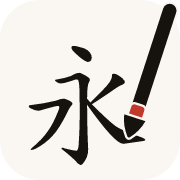
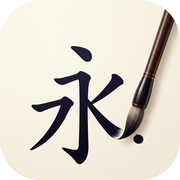
Yeni marka görseli
İkon artık elle çizilmiş bir vektör değil, hazırlanmış bir marka görseli
(brand/icon-source.jpg): 永 karakteri, son stroğu fırçanın altında bitiyor.
Karakter aynı kalıyor — 永字八法'nın karakteri, sekiz temel strok türünü
birden içerdiği için hat yazısında ilk yazılan karakter.

tools/make-logo.py bütün boyutları tek kaynaktan üretiyor: köşeleri
saydamlaştırılmış uygulama ikonları, Android başlatıcı ikonları (yuvarlak ve
daire), uyarlanabilir ikonun ön katmanı ve açılış görselleri.

Maskeli ikonda çizim %88'e küçültülüp kağıt tonunda bir zemine oturtuluyor:
Android kenarları daire ya da köşeli kareyle kırptığı için fırça sapının ucu
aksi halde kesiliyordu. Zemin rengi çizimin kendi kağıt tonundan alındığı
için ek getirdiği kenar görünmüyor.

Kaynak raster olduğundan SVG ikon üretilmiyor; favicon ve başlıktaki marka
PNG'ye geçti, eski vektör logo betiği kalktı.

diff --git a/index.html b/index.html
@@ -8,7 +8,7 @@
 <meta name="description" content="Kendi hanzi havuzunu kur, aralıklı tekrarla ezberle.">
 <title>Inkwell</title>
 <link rel="manifest" href="manifest.webmanifest">
-<link rel="icon" href="icons/icon.svg" type="image/svg+xml">
+<link rel="icon" href="icons/icon-192.png" type="image/png">
 <link rel="apple-touch-icon" href="icons/icon-180.png">
 <link rel="stylesheet" href="css/app.css">
 </head>
@@ -22,7 +22,7 @@
     <!-- oturum dışı: özet -->
     <div class="view" id="study-home">
       <header class="page-head">
-        <h1 class="wordmark"><img src="icons/mark.svg" alt="" width="34" height="34">Inkwell</h1>
+        <h1 class="wordmark"><img src="icons/icon-192.png" alt="" width="34" height="34">Inkwell</h1>
         <p class="subtitle" id="study-greeting">Bugünün tekrarı</p>
       </header>
 

diff --git a/css/app.css b/css/app.css
@@ -116,7 +116,7 @@ body::before {
   letter-spacing: .06em;
   font-weight: 600 !important;
 }
-.wordmark img { display: block; flex: none; }
+.wordmark img { display: block; flex: none; border-radius: 8px; }
 
 .subtitle { margin: 4px 0 0; color: var(--ink-3); font-size: .92rem; }
 .group-title { margin: 0 0 6px; font-size: .95rem; font-weight: 650; letter-spacing: .01em; }

diff --git a/sw.js b/sw.js
@@ -26,8 +26,7 @@ const SHELL_FILES = [
   'js/syllables.js',
   'js/vendor/hanzi-writer.min.js',
   'manifest.webmanifest',
-  'icons/icon.svg',
-  'icons/mark.svg',
+  'icons/icon-192.png',
 ];
 
 self.addEventListener('install', (e) => {

diff --git a/tools/make-logo.py b/tools/make-logo.py
@@ -1,0 +1,125 @@
+"""Marka görselinden bütün ikon boyutlarını üretir.
+
+Kaynak: brand/icon-source.jpg — 永 karakteri, son stroğu fırçanın altında
+bitiyor. 永 (Çince yǒng, Japonca *ei*) "sonsuz" demek ve hat yazısında
+永字八法 olarak bilinen klasik alıştırma karakteri: sekiz temel strok türünün
+hepsini içerdiği için yüzyıllardır ilk yazılan karakter budur.
+
+Üretilenler:
+  icons/icon-{192,512}.png   uygulama ikonu (köşeler saydam)
+  icons/icon-180.png         apple-touch-icon
+  icons/icon-maskable.png    Android'in kırpacağı ikon (içerik güvenli alanda)
+  android/.../mipmap-*       başlatıcı ikonları
+  android/.../drawable-*     açılış görselleri
+
+Not: kaynak bir raster görsel olduğu için SVG ikon üretilmiyor; eski vektör
+logo (tools/make-logo.mjs) bunun yerini bıraktı.
+"""
+from PIL import Image, ImageDraw
+import os
+
+SRC = "brand/icon-source.jpg"
+RES = "android/app/src/main/res"
+
+# Çizimin kağıt tonu; maskeli ikonda zemin bununla doldurulur ki
+# küçültülmüş çizimin kenarı zemine görünmez biçimde otursun.
+PAPER = (247, 242, 230, 255)
+
+# Çizimin kendi köşe yuvarlaklığı (kenarın yüzdesi olarak).
+CORNER = 0.22
+
+# Maskeli ikonda çizimin kapladığı oran. Android kenarları daire ya da
+# köşeli kareyle kırpar; %88 bırakmak fırça sapının ucunun kesilmesini önler.
+SAFE = 0.88
+
+source = Image.open(SRC).convert("RGB")
+if source.width != source.height:
+    raise SystemExit("Kaynak kare olmalı")
+
+
+def rounded(img, radius_ratio=CORNER):
+    """Köşeleri saydamlaştırır."""
+    out = img.convert("RGBA")
+    r = int(out.width * radius_ratio)
+    mask = Image.new("L", out.size, 0)
+    ImageDraw.Draw(mask).rounded_rectangle([0, 0, out.width - 1, out.height - 1], r, fill=255)
+    out.putalpha(mask)
+    return out
+
+
+def circle(img):
+    out = img.convert("RGBA")
+    mask = Image.new("L", out.size, 0)
+    ImageDraw.Draw(mask).ellipse([0, 0, out.width - 1, out.height - 1], fill=255)
+    out.putalpha(mask)
+    return out
+
+
+def resized(img, size):
+    return img.resize((size, size), Image.LANCZOS)
+
+
+def inset(size, ratio=SAFE, background=PAPER):
+    """Çizimi küçültüp verilen zeminin ortasına yerleştirir (taşmasız)."""
+    canvas = Image.new("RGBA", (size, size), background)
+    inner = int(size * ratio)
+    art = resized(source.convert("RGBA"), inner)
+    off = (size - inner) // 2
+    canvas.paste(art, (off, off), art)
+    return canvas
+
+
+art = source.convert("RGBA")
+written = []
+
+# ── web / PWA ──
+os.makedirs("icons", exist_ok=True)
+for size in (192, 512, 180):
+    rounded(resized(art, size)).save(f"icons/icon-{size}.png")
+    written.append(f"icons/icon-{size}.png")
+
+inset(512).convert("RGB").save("icons/icon-maskable.png")
+written.append("icons/icon-maskable.png")
+
+# ── Android başlatıcı ──
+DENSITIES = {"mdpi": 48, "hdpi": 72, "xhdpi": 96, "xxhdpi": 144, "xxxhdpi": 192}
+
+for name, px in DENSITIES.items():
+    folder = f"{RES}/mipmap-{name}"
+    os.makedirs(folder, exist_ok=True)
+    rounded(resized(art, px)).save(f"{folder}/ic_launcher.png")
+    circle(resized(art, px)).save(f"{folder}/ic_launcher_round.png")
+    # Uyarlanabilir ikonun ön katmanı 108dp tuvale çizilir, ortadaki 72dp'si
+    # her cihazda görünür; zemini ayrı katman verdiği için saydam bırakılıyor.
+    fg = round(px * 108 / 48)
+    inset(fg, ratio=0.62, background=(0, 0, 0, 0)).save(f"{folder}/ic_launcher_foreground.png")
+    written.append(folder)
+
+with open(f"{RES}/values/ic_launcher_background.xml", "w", encoding="utf-8") as f:
+    f.write(
+        '<?xml version="1.0" encoding="utf-8"?>\n<resources>\n'
+        f'    <color name="ic_launcher_background">#{PAPER[0]:02X}{PAPER[1]:02X}{PAPER[2]:02X}</color>\n'
+        "</resources>\n"
+    )
+
+# ── açılış görselleri ──
+SPLASH = {"mdpi": (320, 480), "hdpi": (480, 800), "xhdpi": (720, 1280),
+          "xxhdpi": (960, 1600), "xxxhdpi": (1280, 1920)}
+
+def splash(w, h):
+    canvas = Image.new("RGB", (w, h), PAPER[:3])
+    logo = int(min(w, h) * 0.32)
+    tile = rounded(resized(art, logo))
+    canvas.paste(tile, ((w - logo) // 2, (h - logo) // 2), tile)
+    return canvas
+
+for name, (w, h) in SPLASH.items():
+    for folder, size in ((f"{RES}/drawable-port-{name}", (w, h)),
+                         (f"{RES}/drawable-land-{name}", (h, w))):
+        os.makedirs(folder, exist_ok=True)
+        splash(*size).save(f"{folder}/splash.png")
+
+os.makedirs(f"{RES}/drawable", exist_ok=True)
+splash(720, 1280).save(f"{RES}/drawable/splash.png")
+
+print(f"{len(written)} hedef yazildi + acilis gorselleri")

diff --git a/README.md b/README.md
@@ -1,6 +1,6 @@
 # Inkwell
 
-<img src="icons/icon.svg" width="88" align="right" alt="">
+<img src="icons/icon-512.png" width="88" align="right" alt="">
 
 Kendi hanzi havuzunu kur, aralıklı tekrarla ezberle. Çevrimdışı çalışır, veri
 cihazdan çıkmaz.
@@ -192,7 +192,8 @@ data/strokes.txt      strok verisi (üretilmiş, depoda yok)
 data/cedict.tsv       gömülü sözlük (üretilmiş dosya)
 tools/serve.mjs       yerel statik sunucu (Inkwell.bat bunu çalıştırır)
 tools/build-dict.mjs  CC-CEDICT → data/cedict.tsv
-tools/make-logo.mjs   marka ve bütün ikon boyutları
+brand/icon-source.jpg kaynak marka görseli
+tools/make-logo.py    kaynaktan bütün ikon boyutları
 tools/build-strokes.mjs  hanzi-writer-data → data/strokes.txt
 tools/build-www.mjs   www/ çıktısı (Capacitor bunu paketler)
 tools/build-apk.mjs   imzalama + APK derlemesi
@@ -224,6 +225,21 @@ node tools/build-dict.mjs
   çıkış zamanlarının ayrılması
 
 ---
+
+## Marka
+
+İkondaki karakter 永 — son stroğu fırçanın altında bitiyor.
+
+永 hat yazısında **永字八法** olarak bilinen klasik alıştırma karakteri: sekiz
+temel strok türünün hepsini içerdiği için yüzyıllardır ilk yazılan karakter
+budur. Yazma pratiği yapan bir uygulama için doğru karakter. Anlamı da
+"sonsuz" (Japonca okunuşu *ei*).
+
+Bütün boyutlar tek kaynaktan üretiliyor:
+
+```bash
+npm run icons
+```
 
 ## Veri kaynakları
 
